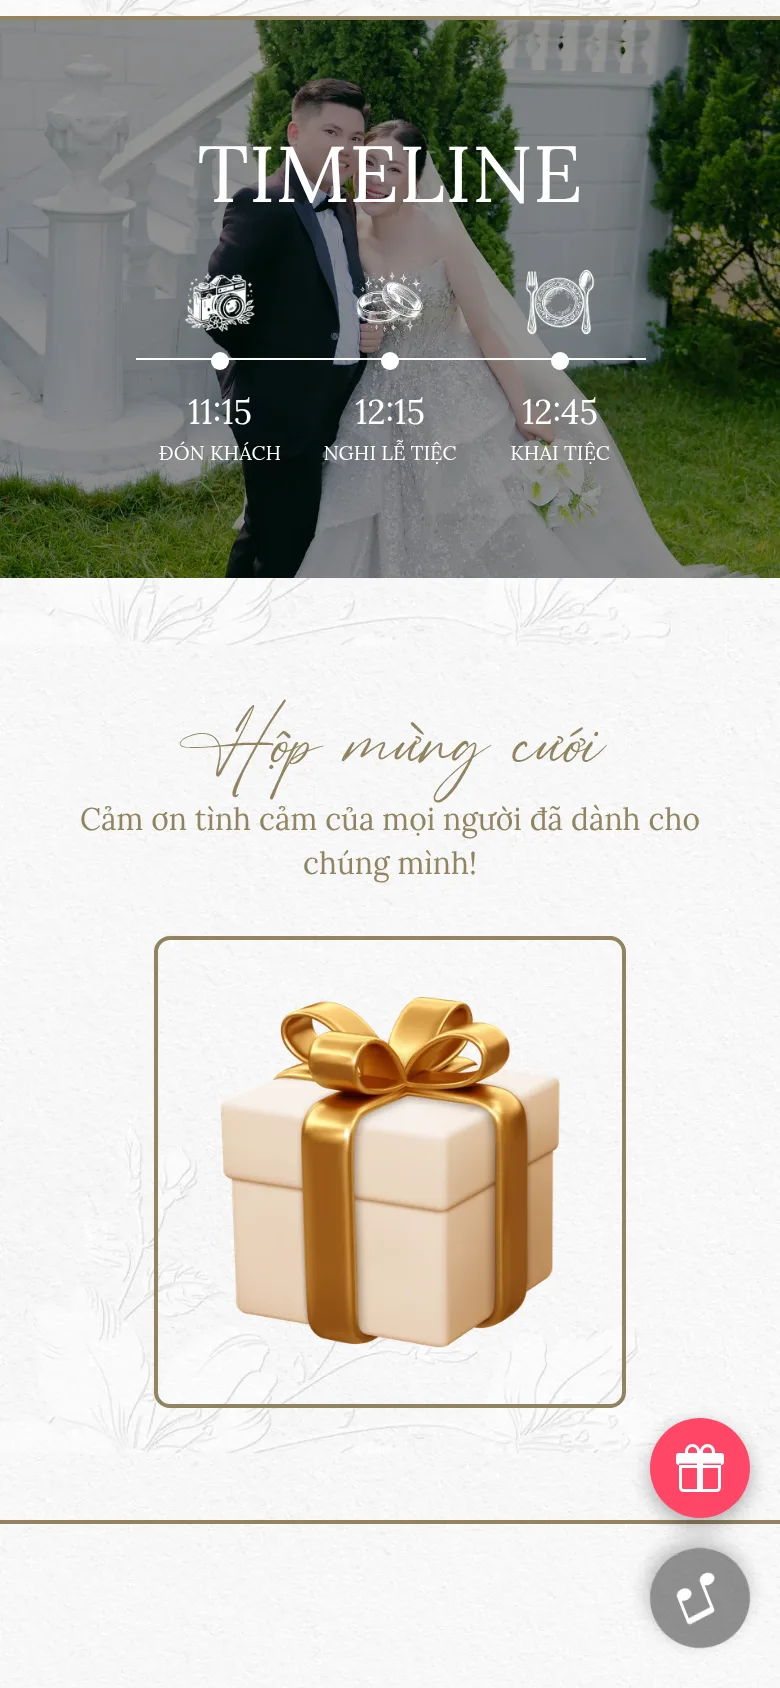
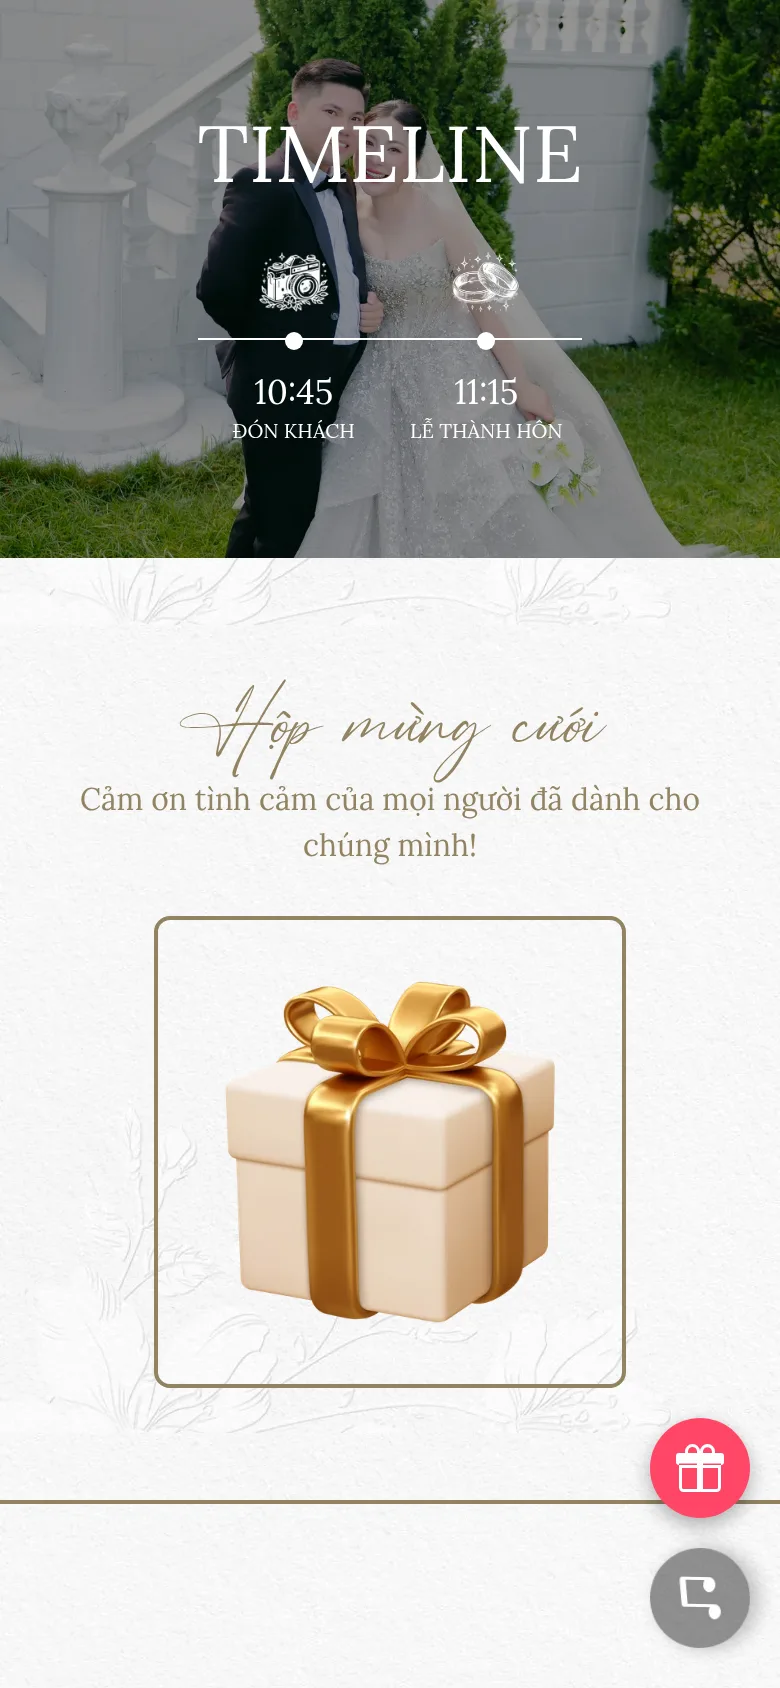
Phiếu sửa 25/11 (1): timeline nhà trai còn 2 mốc — 10:45 Đón khách, 11:15 Lễ Thành Hôn (bỏ 12:15 Nghi lễ tiệc / 12:45 Khai tiệc tự suy trước đó)

diff --git a/products/Invitation/Wedding/khach_dinh-phuoc-bao-tram/code.html b/products/Invitation/Wedding/khach_dinh-phuoc-bao-tram/code.html
@@ -282,22 +282,15 @@
         <div class="timeline-item reveal" data-anim="up">
           <div class="timeline-item-icon"><img src="../../../shared/wedding/tpl-vintage-film/assets/icon-tl1.webp" alt=""></div>
           <div class="timeline-item-content">
-            <div class="time">11:15</div>
+            <div class="time">10:45</div>
             <div class="title">Đón khách</div>
           </div>
         </div>
         <div class="timeline-item reveal d2" data-anim="up">
           <div class="timeline-item-icon"><img src="../../../shared/wedding/tpl-vintage-film/assets/icon-tl2.webp" alt=""></div>
           <div class="timeline-item-content">
-            <div class="time">12:15</div>
-            <div class="title">Nghi lễ tiệc</div>
-          </div>
-        </div>
-        <div class="timeline-item reveal d3" data-anim="up">
-          <div class="timeline-item-icon"><img src="../../../shared/wedding/tpl-vintage-film/assets/icon-tl3.webp" alt=""></div>
-          <div class="timeline-item-content">
-            <div class="time">12:45</div>
-            <div class="title">Khai tiệc</div>
+            <div class="time">11:15</div>
+            <div class="title">Lễ Thành Hôn</div>
           </div>
         </div>
       </div>
